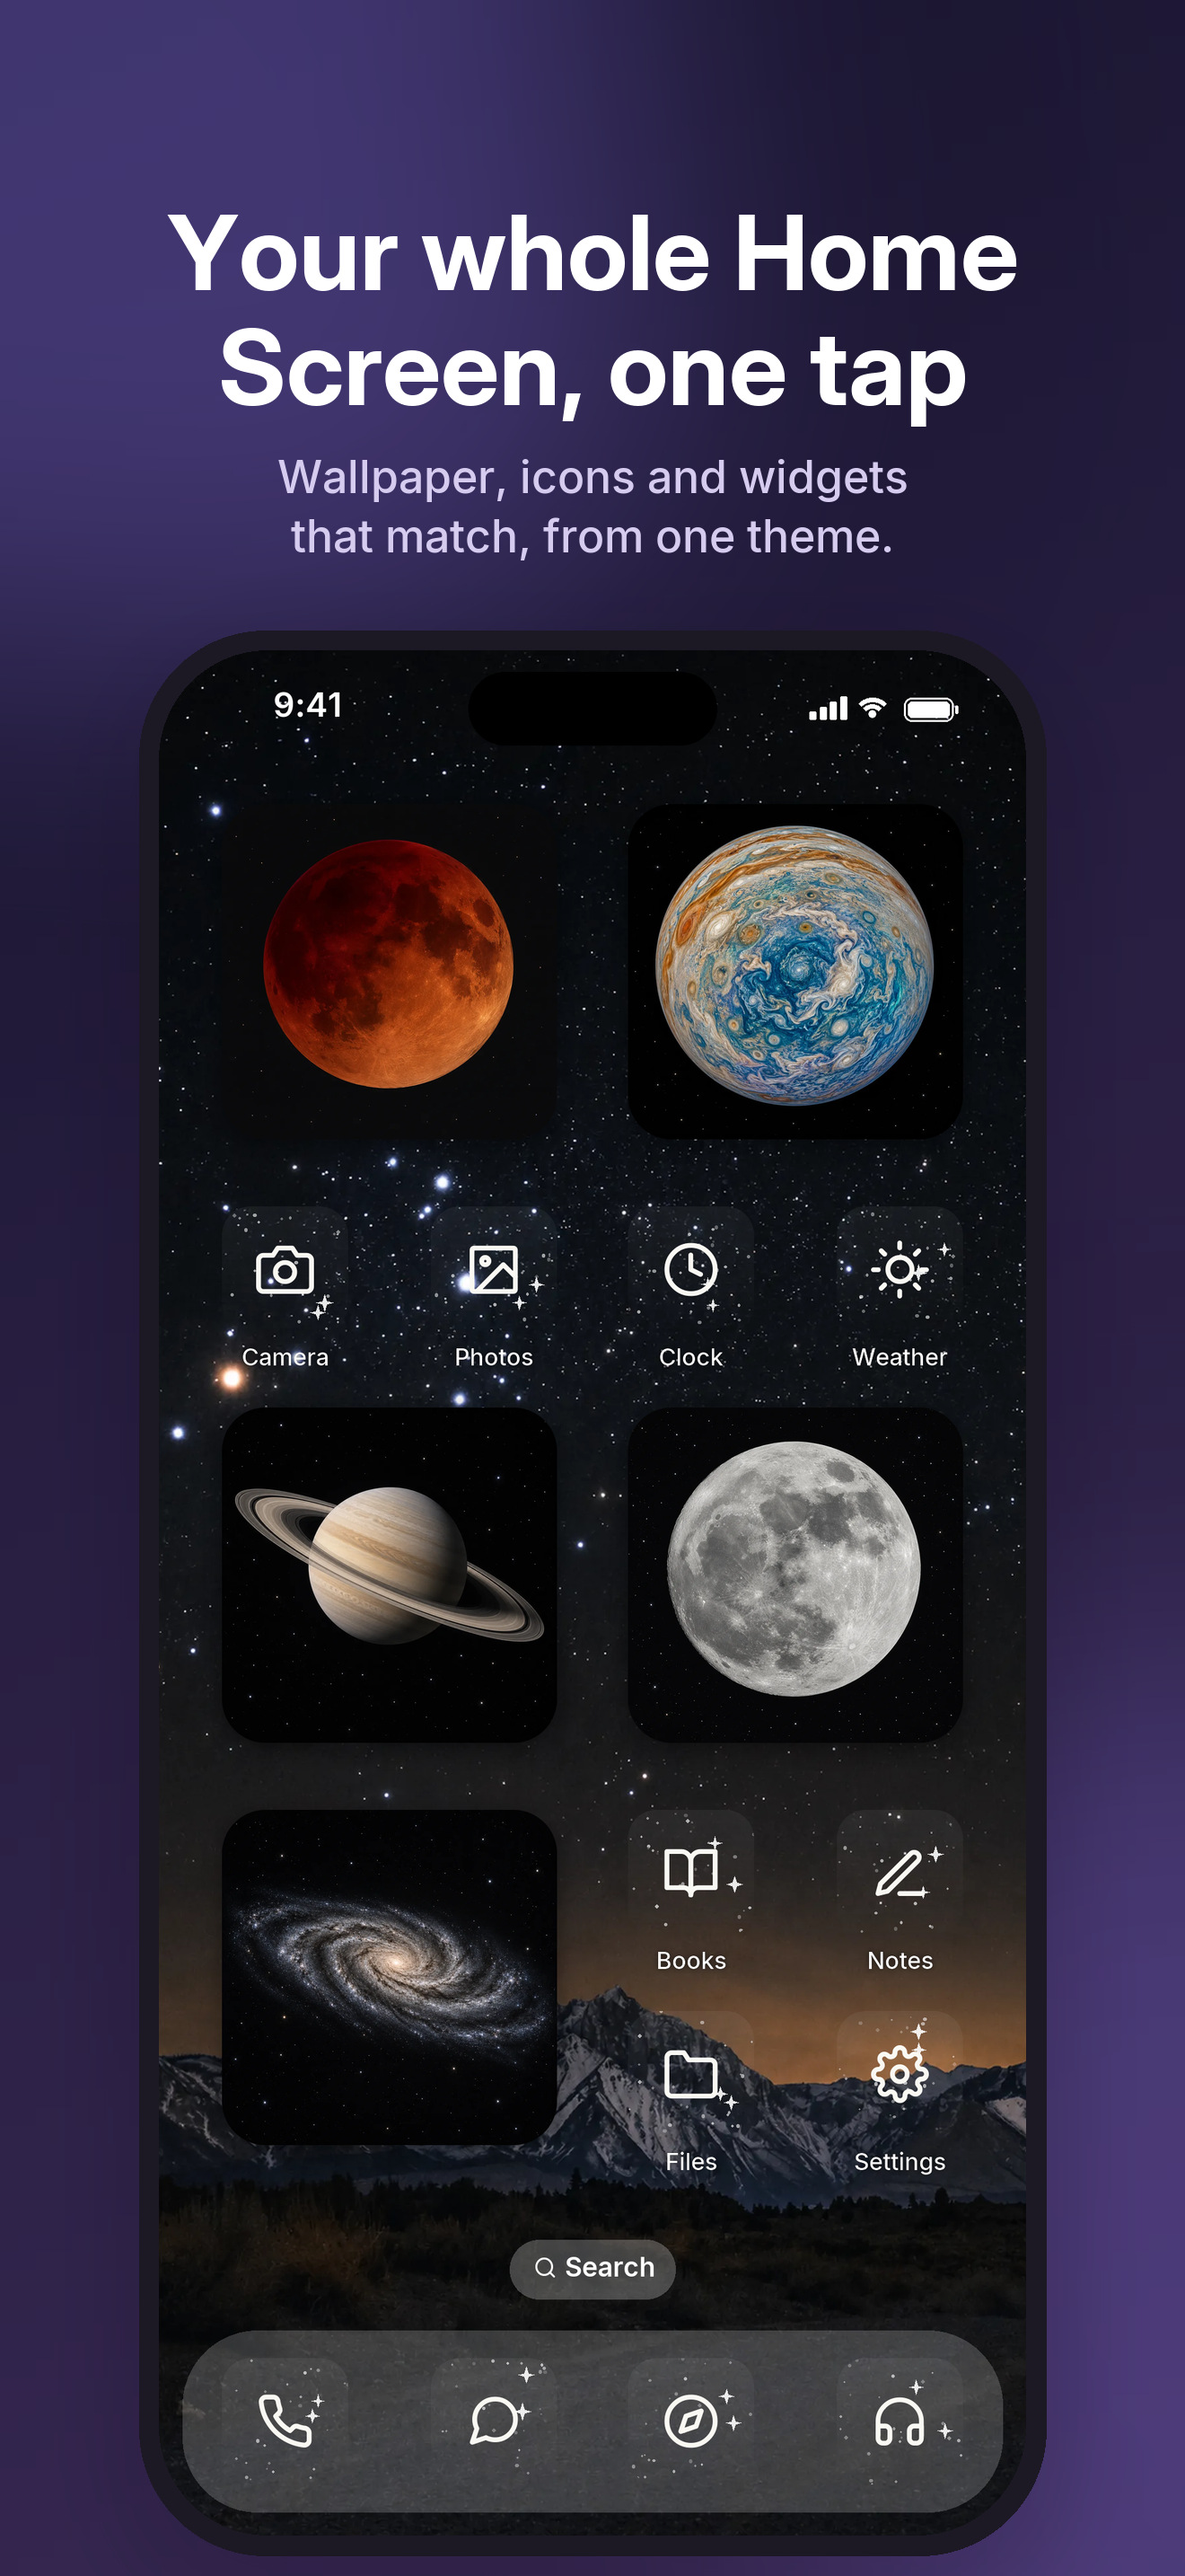
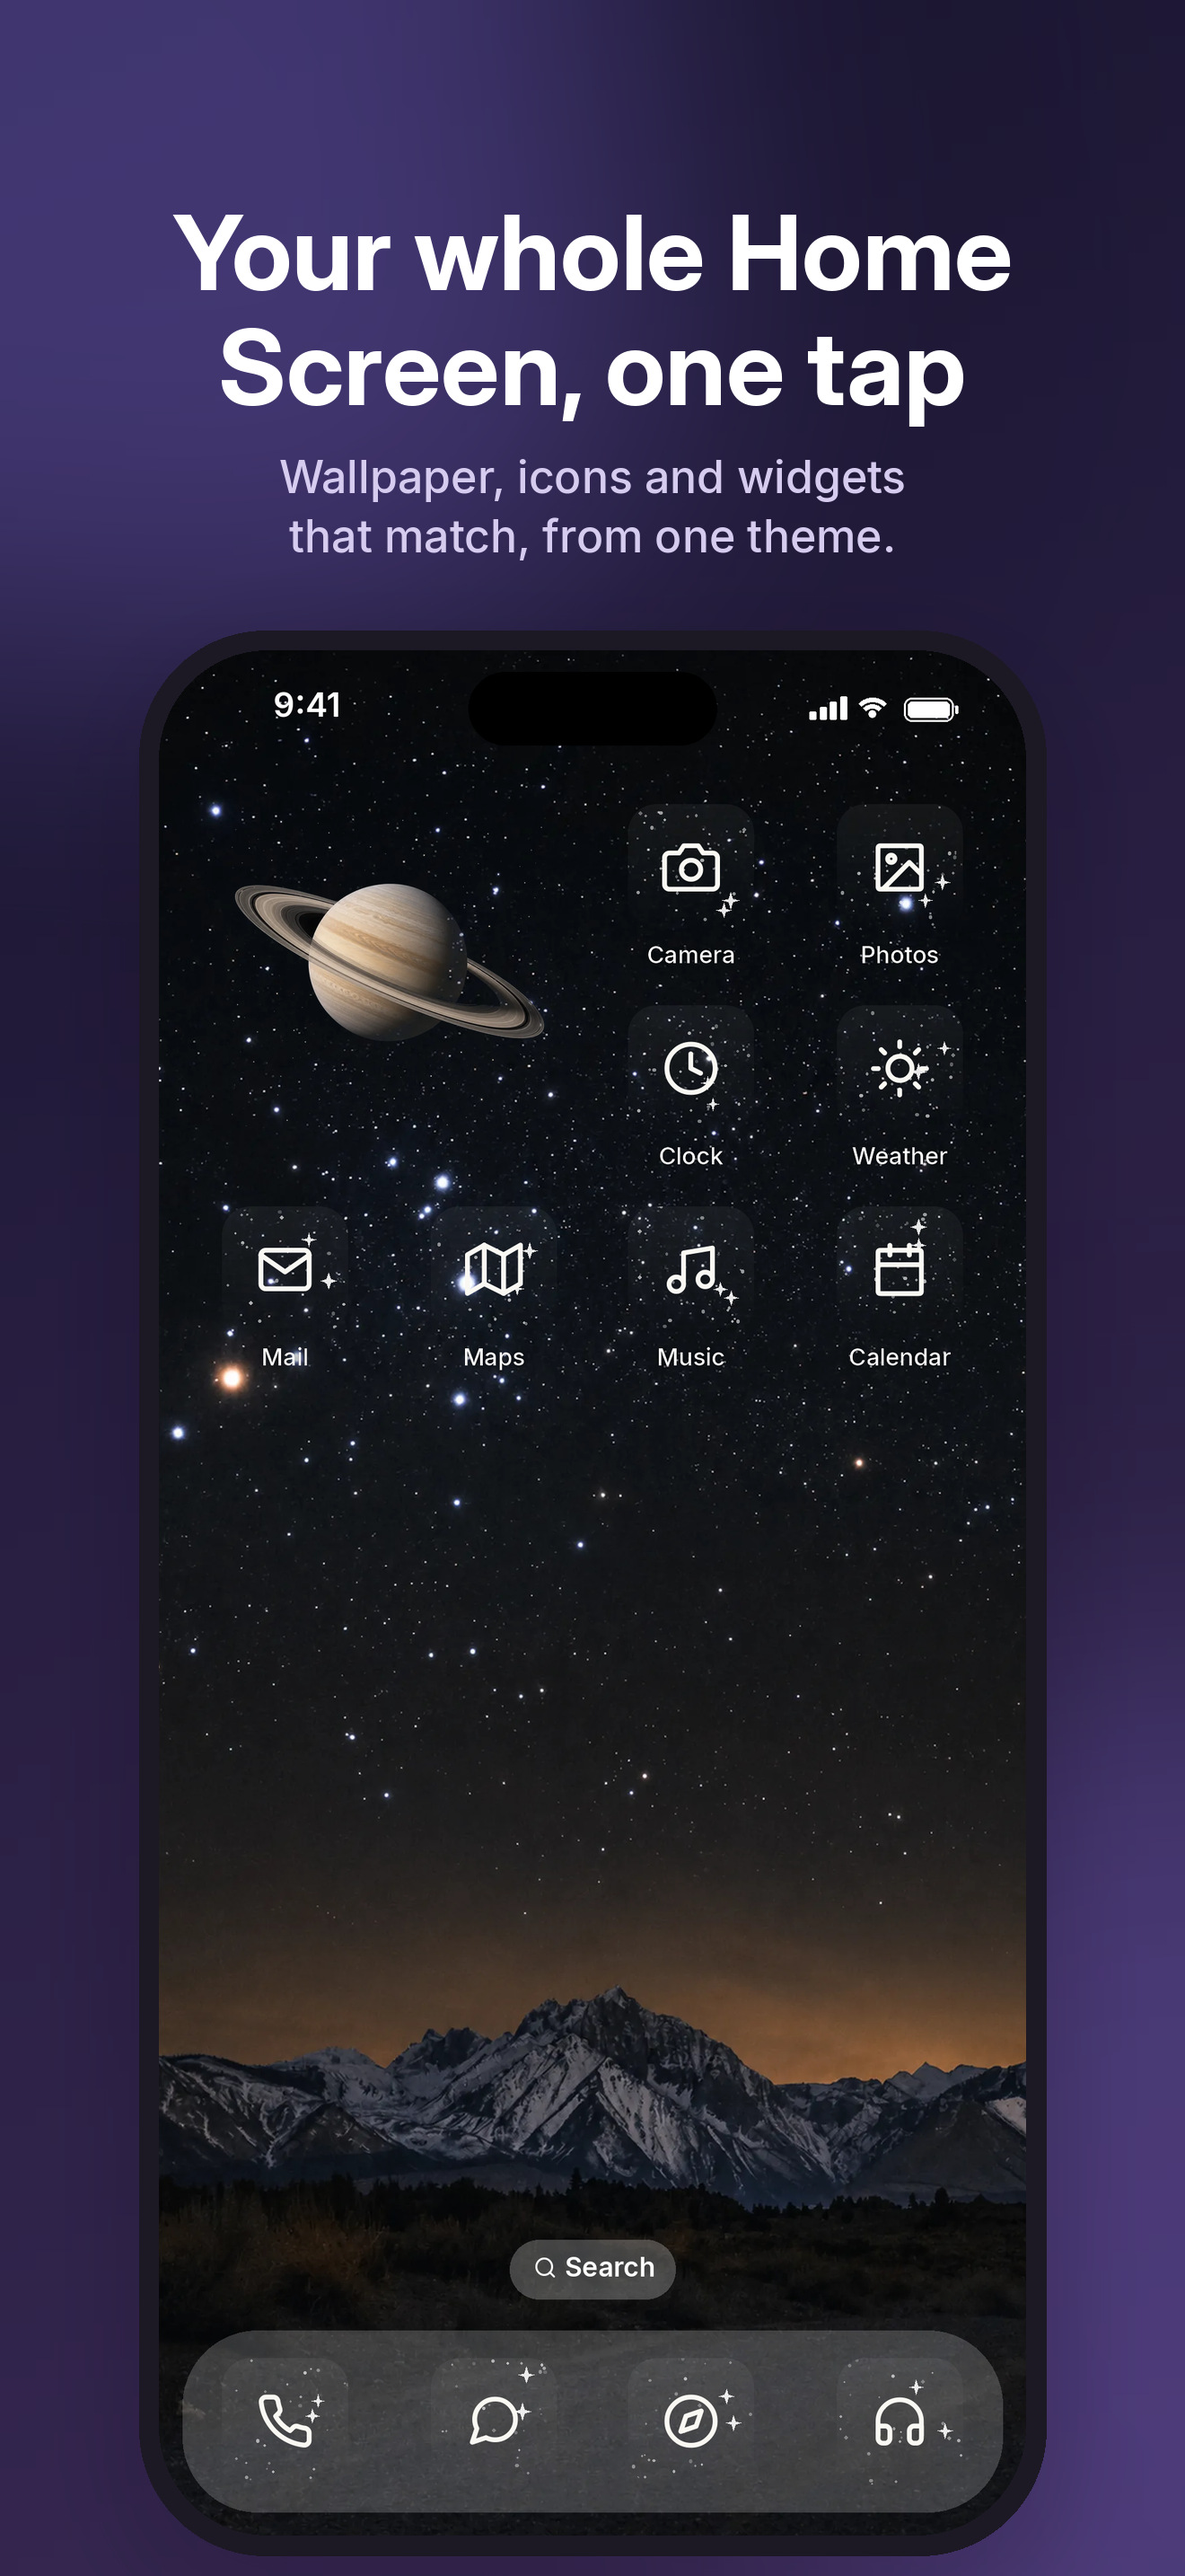
Glaze store shots: one artwork per Home Screen, up in a corner; apps in the top half only
Jared (17 Nov): the Home Screens had five artworks scattered down the page. Now one piece (Alpine
Starlight: Saturn) sits in a top corner, blended into the wallpaper the way the phone does it, with
two short rows of apps and the wallpaper clear below. Shots 1 and 3 re-rendered.

Claude-Session: https://claude.ai/code/session_01Uq5h3DPH67bxTaHBnvNjNg

diff --git a/apps/glaze/store/capture/home.py b/apps/glaze/store/capture/home.py
@@ -1,7 +1,8 @@
 """A full-resolution Home Screen in one Glaze theme, for the App Store shots.
 
 The simulator cannot install the icon profile or place widgets, so this draws the Home Screen from the
-theme's real files: its full-size wallpaper and its Artwork 1-5 pieces (as Small Glaze widgets), with icons
+theme's real files: its full-size wallpaper and ONE of its artworks as a Small Glaze widget up in a top corner (Jared,
+17 Nov: "one art work per page", "only the apps in the top half"), the wallpaper left clear below, with icons
 in the theme's icon style as the app draws it: Feather glyphs on the theme's tile colour, with a starfield
 on night themes and a fine grain on the rest (src/core/iconLook.ts), matched to the in-app previews in the
 captures. App labels are generic words; no brand logos.
@@ -31,6 +32,9 @@ PITCH = 102 * PT
 
 # Alpine Starlight's Artwork 1-5, in the order the Widgets tab lists them.
 ART = ['copper-eclipse', 'jupiter-polar', 'saturn-rings', 'silver-moon', 'spiral-galaxy']
+# The one artwork each store Home Screen shows (top corner). Any other theme: its Artwork 1.
+HERO = {'alpine-starlight': 'saturn-rings', 'desert-afterglow': 'crescent-moon',
+        'cloud-atelier': 'balloon-skiff', 'cobalt-caravan': 'oasis-bird'}
 APPS_ROW = [('camera', 'Camera'), ('image', 'Photos'), ('clock', 'Clock'), ('sun', 'Weather')]
 APPS_ROW2 = [('mail', 'Mail'), ('map', 'Maps'), ('music', 'Music'), ('calendar', 'Calendar')]
 APPS_SIDE = [('book-open', 'Books'), ('edit-3', 'Notes'), ('folder', 'Files'), ('settings', 'Settings')]
@@ -49,8 +53,8 @@ def hexc(s):
     return tuple(int(s[i:i + 2], 16) for i in (0, 2, 4))
 
 
-def remote_theme(theme_id):
-    """(wallpaper, [art pieces], look) of a catalogue theme, from its pack manifest."""
+def remote_theme(theme_id, art=None):
+    """(wallpaper, [the one art piece], look) of a catalogue theme, from its pack manifest."""
     cat = json.loads(fetch(f'{R2}/catalog.json'))
     entry = next(p for p in cat['packs'] if p['id'] == theme_id)
     base = f"{R2}/{entry['manifest'].rsplit('/', 1)[0]}"
@@ -60,7 +64,9 @@ def remote_theme(theme_id):
     # src/core/artworkCoverage.ts), never simply the manifest's first art pieces (those can repeat a motif).
     cov = json.loads((GLAZE / 'scripts/packs/artwork-coverage.json').read_text(encoding='utf8'))['perTheme'][theme_id]
     art_base = f"{R2}/{cov['manifest'].rsplit('/', 1)[0]}"
-    arts = [Image.open(io.BytesIO(fetch(f'{art_base}/{img}'))).convert('RGB') for img in cov['images'][:5]]
+    want = art or HERO.get(theme_id)
+    pick = next((i for i in cov['images'] if want and i.startswith(f'widget-{want}.')), cov['images'][0])
+    arts = [Image.open(io.BytesIO(fetch(f'{art_base}/{pick}'))).convert('RGB')]
     pal = man['palette']
     look = {'tile': hexc(pal['tile']), 'glyph': hexc(pal['glyph']),
             'texture': 'stars' if entry.get('category') == 'Space & Night' else 'grain'}
@@ -130,7 +136,31 @@ def light_under(img, box):
     return img.crop(tuple(round(v) for v in box)).convert('L').resize((1, 1), Image.BOX).getpixel((0, 0)) > 175
 
 
+def blended(art):
+    """The artwork as the phone shows it (src/core/artBlend.ts via scripts/packs/blend-audit.py): a plain backdrop
+    is keyed or feathered away so the subject floats on the wallpaper; a full scene keeps its rounded tile."""
+    try:
+        import importlib.util
+        import numpy as np
+        spec = importlib.util.spec_from_file_location('blend', GLAZE / 'scripts/packs/blend-audit.py')
+        m = importlib.util.module_from_spec(spec)
+        spec.loader.exec_module(m)
+        rgba = np.asarray(art.convert('RGBA'), dtype=np.uint8).copy()
+        d = m.decide(m.measure(rgba))
+        if d.get('mode') in (None, 'none', 'tile', 'opaque'):
+            return None
+        return Image.fromarray(m.apply_blend(rgba, d, fill_interior=True), 'RGBA')
+    except Exception as e:  # numpy missing or an odd piece: fall back to the rounded tile
+        print('blend skipped:', e)
+        return None
+
+
 def widget(img, art, x, y, size):
+    b = blended(art)
+    if b is not None:
+        b = b.resize((size, size), Image.LANCZOS)
+        img.alpha_composite(b, (x, y))
+        return
     a = art.resize((size, size), Image.LANCZOS).convert('RGBA')
     sh = Image.new('RGBA', img.size, (0, 0, 0, 0))
     ImageDraw.Draw(sh).rounded_rectangle((x, y + 10, x + size, y + size + 10), round(size * 0.13), fill=(0, 0, 0, 110))
@@ -157,7 +187,7 @@ def status_bar(img, font):
     d.rounded_rectangle((bx + 26 * PT, 28 * PT, bx + 27.5 * PT, 32 * PT), 2, fill=ink + (140,))
 
 
-def build(img, arts, look, fonts, feather):
+def build(img, arts, look, fonts, feather, corner='left'):
     scale = max(W / img.size[0], H / img.size[1])
     img = img.resize((round(img.size[0] * scale), round(img.size[1] * scale)), Image.LANCZOS)
     img = img.crop(((img.size[0] - W) // 2, (img.size[1] - H) // 2, (img.size[0] - W) // 2 + W, (img.size[1] - H) // 2 + H)).convert('RGBA')
@@ -175,20 +205,16 @@ def build(img, arts, look, fonts, feather):
             label(img, name, cx, top + ICON + 5 * PT, lab)
             seed += 1
 
-    # Rows 1-2: Artwork 1 and Artwork 2.
-    widget(img, arts[0], left, ROW0, wsize)
-    widget(img, arts[1], right, ROW0, wsize)
-    # All five Artwork widgets: 1-2, a row of apps, 3-4, then 5 beside four apps.
-    row(APPS_ROW, ROW0 + 2 * PITCH)
-    widget(img, arts[2], left, ROW0 + 3 * PITCH, wsize)
-    widget(img, arts[3], right, ROW0 + 3 * PITCH, wsize)
-    top = ROW0 + 5 * PITCH
-    widget(img, arts[4], left, top, wsize)
-    for i, (g, name) in enumerate(APPS_SIDE):
-        cx, t = COLS[2 + i % 2], top + (i // 2) * PITCH
+    # One artwork, up in a top corner (a Small widget over two icon columns and two rows); four apps beside it
+    # and one more row of four under it. Everything below stays clear so the wallpaper does the talking.
+    art_x, apps_cols = (left, COLS[2:]) if corner == 'left' else (right, COLS[:2])
+    widget(img, arts[0], art_x, ROW0, wsize)
+    for i, (g, name) in enumerate(APPS_ROW):
+        cx, t = apps_cols[i % 2], ROW0 + (i // 2) * PITCH
         img.alpha_composite(icon(g, feather, seed, look), (cx - ICON // 2, t))
         label(img, name, cx, t + ICON + 5 * PT, lab)
         seed += 1
+    row(APPS_ROW2, ROW0 + 2 * PITCH)
     # Search pill and dock.
     d = ImageDraw.Draw(img)
     pill = Image.new('RGBA', img.size, (0, 0, 0, 0))
@@ -216,17 +242,19 @@ def main():
     ap.add_argument('--pack', default=str(GLAZE / 'assets/starter-packs/alpine-starlight'))
     ap.add_argument('--theme', help='a catalogue theme id (downloaded from the pack host)')
     ap.add_argument('--out', required=True)
+    ap.add_argument('--art', help='which artwork goes in the corner (e.g. saturn-rings); default HERO[theme]')
+    ap.add_argument('--corner', choices=['left', 'right'], default='left')
     ap.add_argument('--fonts')
     ap.add_argument('--vector-icons', default=str(GLAZE / VI))
     a = ap.parse_args()
     GLYPHS.update(json.loads((Path(a.vector_icons) / 'glyphmaps/Feather.json').read_text()))
     from compose import fonts_dir
     if a.theme:
-        wall, arts, look = remote_theme(a.theme)
+        wall, arts, look = remote_theme(a.theme, a.art)
     else:
         wall = Image.open(glob.glob(str(Path(a.pack) / 'wallpaper-*.webp'))[0]).convert('RGB')
-        arts, look = [piece(a.pack, n) for n in ART], STARS
-    img = build(wall, arts, look, str(fonts_dir(a.fonts)), str(Path(a.vector_icons) / 'Fonts/Feather.ttf'))
+        arts, look = [piece(a.pack, a.art or HERO['alpine-starlight'])], STARS
+    img = build(wall, arts, look, str(fonts_dir(a.fonts)), str(Path(a.vector_icons) / 'Fonts/Feather.ttf'), a.corner)
     img.save(a.out)
     print(a.out, img.size)
 
